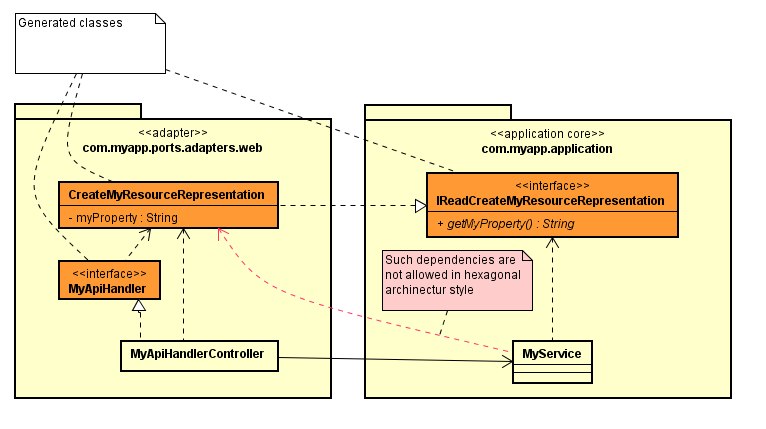
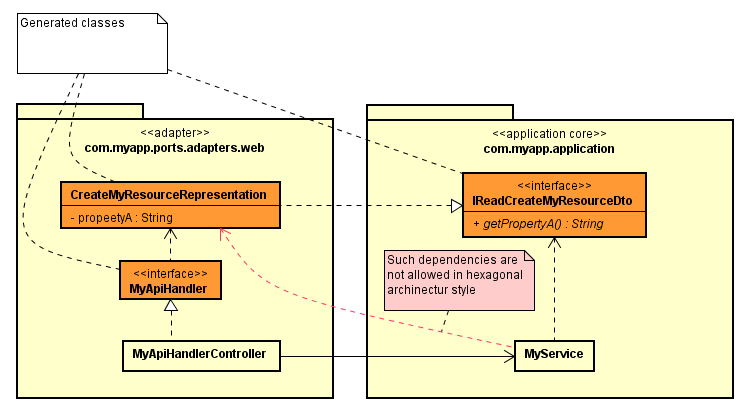
enhance docs

diff --git a/docs/IReadInterfaces.md b/docs/IReadInterfaces.md
@@ -1,5 +1,9 @@
 # IRead* interfaces feature
-This feature is for Hexagonal architecture purists.
+This feature is for [Hexagonal architecture](https://alistair.cockburn.us/hexagonal-architecture/) purists. 
+For this architecture style there is an application "core" and some "adapters" to communicate with "core" from outside world.
+Adapters can only depend on application core, but not vise-versa. 
+For an example "My Market" application supports "list market offers" and "place market offer" operations. 
+There is an adapter exposures these operations as REST API resource https://my-market.com/market-offers via HTTP GET and POST methods.
 
 Generated java classes for API models (mainly request/response models) actually belong to adapters.
 It is not possible to use such models inside application "core", because adapters can use ports from application "core",
@@ -7,13 +11,15 @@ but not vise-versa.
 
 With APICROSS it is possible to generate interface (a-la `IRead*` interface) for API models,
 and locate these interfaces inside application "core" packages. Take a look at example:
+
 ![UML Diagramm](IReadInterfaces-UML.png)
+
 ```java
 package com.myapp.ports.adapters.web;
 
 ...
 @javax.annotation.Generated(value = "io.github.itroadlabs.apicross.springmvc.SpringMvcCodeGenerator")
-public class CreateMyResourceRepresentation implements IReadCreateMyResourceRepresentation {
+public class CreateMyResourceRepresentation implements IReadCreateMyResourceDto {
     ...
 }
 ```
@@ -21,8 +27,8 @@ public class CreateMyResourceRepresentation implements IReadCreateMyResourceRepr
 package com.myapp.application;
 ...
 @javax.annotation.Generated(value = "io.github.itroadlabs.apicross.springmvc.SpringMvcCodeGenerator")
-public interface IReadCreateMyResourceRepresentation {
-    String getSomeProperty();
+public interface IReadCreateMyResourceDto {
+    String getPropertyA();
     ...
 }
 ```
@@ -58,7 +64,12 @@ package com.myapp.application;
 @Service
 @Validated
 public class MyService {
-    public void create(@Valid IReadCreateMyResourceRepresentation model) {
+    @Transactional
+    public void create(@Valid IReadCreateMyResourceDto dto) {
+        MyEntity entity = MyEntity.builder()
+            .withPropertyA(dto.getPropertyA())
+            ...
+            .build();
         ...
     }
 }
